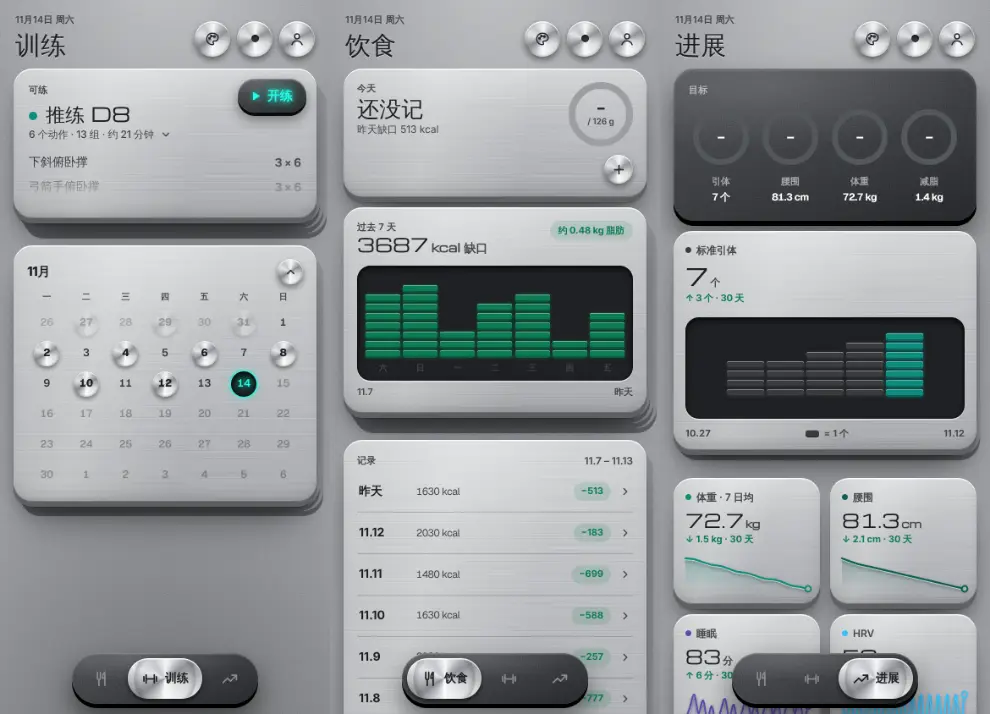
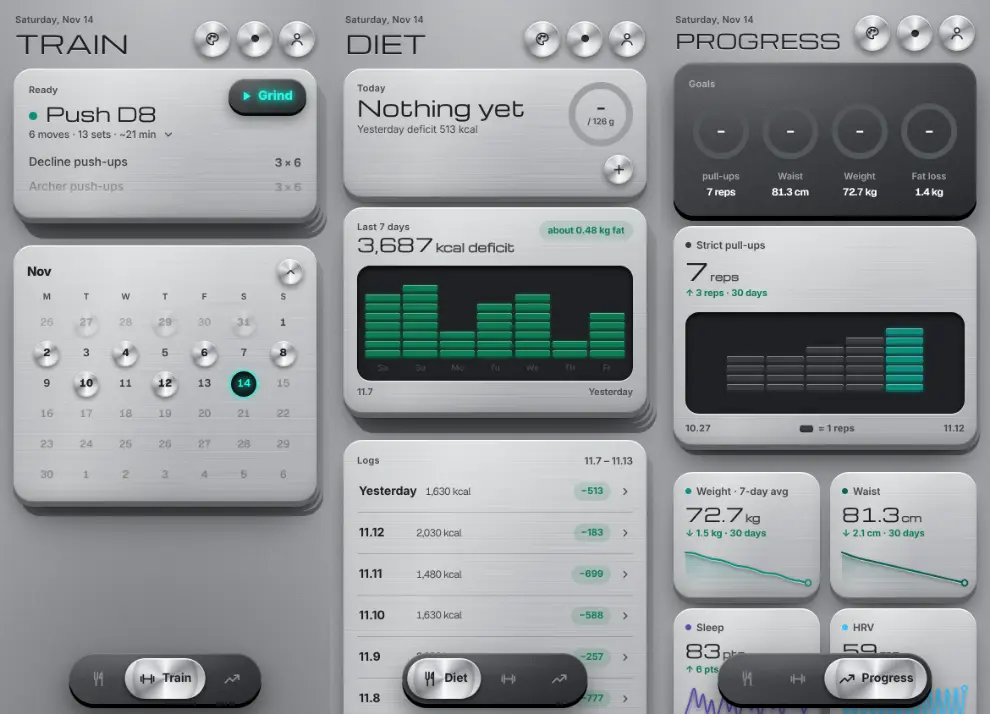
Theme thumbnails in English, one set for every language
Claude-Session: https://claude.ai/code/session_015uTD2PhWcYHBYc8Si5P4yd

diff --git a/tools/thumbs.js b/tools/thumbs.js
@@ -1,5 +1,5 @@
 /* Theme thumbnails for the blind box and the theme list: the three main pages (training, food, progress) of every
-   theme and look, filled with made-up demo data, shot in a headless browser and joined into one strip per look
+   theme and look, filled with made-up demo data, in English (one set for every language), shot in a headless browser and joined into one strip per look
    at img/th/<theme>-<light|dark>.webp. Run from the repo root after a theme or a main page changes visibly:
      python3 -m http.server 8765 &   then   node tools/thumbs.js
    Needs Playwright (require('playwright')). */
@@ -7,7 +7,7 @@ const {chromium}=require("playwright"),fs=require("fs"),path=require("path");
 const BASE="http://localhost:8765/index.html",OUT=path.join(__dirname,"..","img","th"),PW=330,PH=714;
 /* a few weeks of plausible training, food and body numbers, ending yesterday */
 function demo(){const ymd=d=>d.toISOString().slice(0,10),day=n=>{const d=new Date();d.setDate(d.getDate()-n);return ymd(d)};
-  const metrics={},diet={},foods=[["燕麦酸奶",28,9,52,0,410],["鸡胸肉沙拉",42,14,18,1,380],["牛肉饭",34,22,88,1,690],["鸡蛋两个",13,10,1,0,150],["三文鱼配蔬菜",36,20,12,1,400]];
+  const metrics={},diet={},foods=[["Oats & yoghurt",28,9,52,0,410],["Chicken salad",42,14,18,1,380],["Beef rice bowl",34,22,88,1,690],["Two eggs",13,10,1,0,150],["Salmon & greens",36,20,12,1,400]];
   for(let n=1;n<=42;n++){const d=day(n),k=42-n;metrics[d]={date:d,weight:+(74.6-k*.05+Math.sin(n)*.25).toFixed(1),active:420+((n*37)%260),sleep:70+((n*13)%22),hrv:52+((n*7)%14),rhr:56-((n*3)%5)};
     if(n%3===0)metrics[d].waist=+(84-k*.07).toFixed(1);
     if(n<=21)diet[d]={items:foods.slice(0,3+(n%3)).map(f=>({name:f[0],p:f[1],f:f[2],c:f[3],veg:f[4],kcal:f[5]}))}}
@@ -19,7 +19,7 @@ function demo(){const ymd=d=>d.toISOString().slice(0,10),day=n=>{const d=new Dat
   const D=demo();
   await pg.evaluate(D2=>{const dd={sessions:{},metrics:D2.metrics,diet:D2.diet,settings:{plan:"cyclist",sex:"m",height:178,birth:"1990-05-01",buys:[]}};
     localStorage.clear();localStorage.setItem("tracktor-data",JSON.stringify(dd));["welcomed"].forEach(k=>localStorage.setItem("tracktor-p1-"+k,"1"));
-    localStorage.setItem("tracktor-p1-fx","0");localStorage.setItem("tracktor-p1-dust","0");localStorage.setItem("tracktor-p1-rt","0")},{metrics:D.metrics,diet:D.diet});
+    localStorage.setItem("tracktor-p1-fx","0");localStorage.setItem("tracktor-lang","en");localStorage.setItem("tracktor-p1-dust","0");localStorage.setItem("tracktor-p1-rt","0")},{metrics:D.metrics,diet:D.diet});
   await pg.reload();await pg.waitForTimeout(600);
   /* finish the first sessions every other day, with pull-ups creeping up */
   await pg.evaluate(()=>{let n=0;for(const p of PROGRAM.slice(0,14)){const doc=sessionDoc(p.sid),k=n;p.ex.forEach(e=>doc.sets[e.id].forEach((x,i)=>{x.d=true;if(e.id==="pullup")x.v=Math.max(1,Math.round(2+k*.35-i*.5))}));

diff --git a/index.html b/index.html
@@ -7,7 +7,7 @@
 <link rel="manifest" href="manifest.json?v=4">
 <link rel="apple-touch-icon" href="apple-touch-icon.png?v=4">
 <link rel="icon" href="icon.svg?v=4" type="image/svg+xml">
-<link rel="stylesheet" href="css/p1.css?v=31b45cb7"></head><body>
+<link rel="stylesheet" href="css/p1.css?v=5cf61db9"></head><body>
 <div class="wrap">
   <header class="top">
     <div><p class="eyebrow" id="today"></p><h1 id="title">训练</h1></div>
@@ -35,21 +35,21 @@
 <div class="toast" id="toast" role="status"></div>
 <span id="ver" hidden>v1.63a</span>
 
-<script src="js/hant.js?v=31b45cb7"></script>
-<script src="js/core.js?v=31b45cb7"></script>
-<script src="js/diet.js?v=31b45cb7"></script>
-<script src="js/confetti.js?v=31b45cb7"></script>
-<script src="js/sheetcore.js?v=31b45cb7"></script>
-<script src="js/backupcore.js?v=31b45cb7"></script>
-<script src="js/p1data.js?v=31b45cb7"></script>
-<script src="js/p1fx.js?v=31b45cb7"></script>
-<script src="js/p1stack.js?v=31b45cb7"></script>
-<script src="js/coros.js?v=31b45cb7"></script>
-<script src="js/engine.js?v=31b45cb7"></script>
-<script src="js/scratch.js?v=31b45cb7"></script>
-<script src="js/p1.js?v=31b45cb7"></script>
-<script src="js/p1settings.js?v=31b45cb7"></script>
-<script src="js/p1day.js?v=31b45cb7"></script>
-<script src="js/p1weather.js?v=31b45cb7"></script>
-<script src="js/p1music.js?v=31b45cb7"></script>
+<script src="js/hant.js?v=5cf61db9"></script>
+<script src="js/core.js?v=5cf61db9"></script>
+<script src="js/diet.js?v=5cf61db9"></script>
+<script src="js/confetti.js?v=5cf61db9"></script>
+<script src="js/sheetcore.js?v=5cf61db9"></script>
+<script src="js/backupcore.js?v=5cf61db9"></script>
+<script src="js/p1data.js?v=5cf61db9"></script>
+<script src="js/p1fx.js?v=5cf61db9"></script>
+<script src="js/p1stack.js?v=5cf61db9"></script>
+<script src="js/coros.js?v=5cf61db9"></script>
+<script src="js/engine.js?v=5cf61db9"></script>
+<script src="js/scratch.js?v=5cf61db9"></script>
+<script src="js/p1.js?v=5cf61db9"></script>
+<script src="js/p1settings.js?v=5cf61db9"></script>
+<script src="js/p1day.js?v=5cf61db9"></script>
+<script src="js/p1weather.js?v=5cf61db9"></script>
+<script src="js/p1music.js?v=5cf61db9"></script>
 </body></html>

diff --git a/js/p1.js b/js/p1.js
@@ -632,7 +632,7 @@ const SUNMOON='<svg class="sunmoon" viewBox="0 0 24 24" fill="none" stroke="curr
 const thModes=th=>th.fix?[th.fix]:["light","dark"];
 function thPages(th,mode){return [].concat(...(mode?[mode]:thModes(th)).map(m=>[0,1,2].map(i=>({m,i}))))}
 /* TH_V: bump when tools/thumbs.js remakes the pictures (the service worker keeps images until their address changes) */
-const TH_V=1;
+const TH_V=2;
 const thPage=(th,p)=>'background-image:url(img/th/'+th.id+'-'+p.m+'.webp?v='+TH_V+');background-position:'+["0%","50%","100%"][p.i]+' 0';
 /* the stack: the first page on top, the rest stepped right and down behind it */
 function thStack(th,big,mode){const ps=thPages(th,mode);

diff --git a/docs/PRODUCT.md b/docs/PRODUCT.md
@@ -62,7 +62,7 @@
 - **主题盲盒：** G 分商店顶上，余额右边是 App 图标那只信封，隔几秒轻轻晃一下。点它问「花 100 G 开一个主题盲盒？」，付了之后弹出刮刮卡（Ovio 的 Scratch to Reveal，`js/scratch.js`），手指刮开涂层，刮过一半剩下的自己掉；下面是随机抽到的、你还没有的主题（色板 + 名字），揭开时放庆祝，下面出现「好」和「换上」。给过的主题不会再给；所有主题都有了，信封变灰，点了只提示已集齐。刮刮卡的样子跟着当前主题：草木、暖砂、喷砂铝、白瓷、粉瓷是 minimal（磨砂涂层），糖果塑料、黏土是 toy（撒糖粒的蓝橡胶，揭开时彩纸飞出），钴蓝、冰蓝拉丝、奶油塑料是 retro（绿色雪花噪点，一格一格擦），拉丝铝、米白烤漆、黑皮压纹是 craft（银色锡箔票，用硬币刮的毛边）。
 - **G 币和 G 分商店：** G 的图标是当下主题的圆形按钮，中间一个金色的 G，金光一呼一吸；商店叫「G 分商店」（谐音「积分」），英文 barGain store。
 - **图标：** 磨砂钴蓝的底，一只拆开的玫瑰红信封（左翻盖浅、右翻盖深，沿边一道高光），里面抽出一张奶白礼品卡，卡上一枚大金币压着 G（G 寓意肌，拆信封是得到奖励），左下角压印一颗爱心（健身是自爱）。整块图标像一块有厚度的圆角板，底下露出一圈深红的侧边和一点投影。图标的 SVG 原稿是 `icon.svg`，PNG 从它渲染；可遮罩版和 iPhone 版是满版不留圆角（圆角由手机系统按自己的形状裁）；可遮罩版的底色和信封铺满，卡片、金币、爱心收在中间的安全区里，系统裁成圆形或圆角方都不会切到。
-- **主题：** 多数主题有亮、暗两版，顶栏同步按钮左边是明暗开关（点一下切换，长按进主题页，也就是 G 分商店的主题区）；只有一种样子的主题没有这个开关，设定 › 外观里也不显示「跟随手机 / 亮 / 暗」，主题在 G 分商店换。G 分商店的主题列表只显示已经拥有的主题，没解锁的一个都不露，保持神秘；只有主题盲盒右上角一个数字，写着还有几套没解锁，新主题只从盲盒里开。盲盒是一只封着的彩色信封（玫红信封、金色心形封蜡，一直是彩色）：G 不够 100 或主题都集齐了，点它只抖一下、不打开；能开时点它，信封掀开盖子、变成 App 图标的样子（打开的信封里一枚 G 币），接着进刮刮卡；能开时它隔几秒轻轻晃一下。刮刮卡穿的是当前主题的颜色和质感（卡片、颗粒、凹槽、强调色，Ovio 的 Scratch to Reveal 只是底子），没有多余的字，只有一条进度线；刮开不到一半，底下只是一团模糊，什么也看不出，这时关掉就算没开盒、不扣 G；刮过一半才扣 100 G、收进主题，奖品从模糊里慢慢清楚：那套主题三个主页面（训练、饮食、进展）的缩略图叠成一小摞（亮暗两版的是六张，名字后面一个日月图标），点它弹出一个不超过半个屏幕的面板，左右划或点一下一张张看。下面两个键：「收下」和「使用」。主题列表里每个主题也用自己三页的缩略图一小摞来认（当前明暗那一版），亮暗两版的带日月图标，不再用色块条。缩略图是 `img/th/<主题>-<light|dark>.webp`（三页并排），用 `tools/thumbs.js` 拿假数据在无头浏览器里截。草木 · 极光免费（亮色石膏灰配柔和的鼠尾草绿，暗色深海黑配极光青）；暖砂 · 流金 60 G（亮色燕麦石灰配陶土橙，暗色黑曜石配落日流金）；玩具 90 G：照开源的 Ovio UI「toy」风格（MIT），点阵底板、塑料卡片带唇边、红蓝黄绿原色按键按下会沉下去、缺口柱子是一块块积木、日历上练过的日子是彩色塑料钉、目标是一块蓝色塑料板、数字用等宽字，打勾是红色街机按钮，彩带换成原色方块和圆点；亮色是奶油色塑料配红蓝黄绿，暗色是巨型机器人配色的夜间玩具：深紫底板和紫色塑料卡片，荧光青柠绿是主色，橙色是第二色（缺口 / 盈余、好 / 坏也是绿 / 橙），目标是一块紫色塑料板。立体感：顶栏的同步按钮照 Ovio 的 pull to sync 做成凹槽里的塑料滑块（拖到最右松手同步、弹簧弹回，轻点也同步；中间小灯平时黄、同步中闪、完成绿），头像是圆鼓鼓的蓝色塑料按钮；卡路里柱子照 Ovio 的 star history 摞成 8px 的小积木，每块底下一道深色唇边、顶上一线高光；卡片有亮的上沿和 7px 唇边，厚度更明显，图表的线是带投影的塑料管，目标圈有投影。声音也换成玩具声：打勾「啵」、做完一个动作木琴琶音、休息结束布谷鸟、练完玩具小号、点按塑料咔哒，烟花是卡通「砰」加一串弹珠声。亮色版的颜色都压低了饱和度，不刺眼，大约是一周练够三天赚的。另有四套只有一种样子的触感主题：钴蓝磨砂 120 G（暗：蓝色阳极铝面板，卡片带斜面高光，按钮是圆柱键帽，底板和卡路里柱子是点阵屏，线和指示灯有白蓝辉光，打勾是高圆柱旋钮）；拉丝铝 · 霓虹 120 G（亮：拉丝铝卡片配顶光，按钮是黑色阳极件上的青色霓虹字，小按钮是锥纹金属旋钮，打勾是黑表圈白表盘，目标板是黑色，柱子是喇叭网孔、今天那根亮青色）；米白烤漆 90 G（亮：米白机身，方键、凹碟、柿橙圆点，底栏是黑色键槽里的米白方键，顶栏按钮是黑座圆顶、头像是橄榄绿，打勾是滚花拨盘）；黏土 · 薄荷 90 G（亮：网格纸底，白色积木卡片带往左下的斜投影，按钮是薄荷积木，目标板是薄荷色，打勾做完变成发光的薄荷圆环）。这四套的光影按同一套做法：每套一个固定光源方向；每种材质有自己的颗粒（塑料细颗粒、拉丝铝的单向拉丝、黏土的哑光粉感）；卡片阴影分接触阴影、中距和远距三层，加上边缘高光和底部暗部；底板有顶光光池和四周暗角；高光跟着手机倾斜移动，金属旋钮的反光和滚花拨盘跟着转，手拿稳后慢慢回到原位（电脑上跟着鼠标）。系统开了「减少动态效果」就不动。玩具主题保持 Ovio 原版的卡通效果，不开光追（试过让按键侧面跟着倾斜，不自然又拖慢，去掉了）。每套主题的拉丁字母和数字用自己的字体（都放在网站里，离线也能用）：拉丝铝 Michroma（宽体仪表字，标题大写）、钴蓝 Doto（点阵字，带辉光）、米白 Inter Tight（瑞士风）、黏土 Nunito（圆润）、暖砂 Fraunces（温润的衬线），草木 · 极光用 Geist、标题和数字字重更轻、小标题大写加字距，偏冷淡。开关和分段按钮也各按主题做成不同的硬件：拉丝铝是凹槽里的金属球拨杆和走带键排、钴蓝是推子和键帽排、米白是黑槽里的米白拨杆和黑框方键排（选中的键下面一个柿橙点）、黏土是积木拨块。奶油塑料 120 G（亮、暗两版，跟着倾斜打光）：油润的半哑光塑料机身，亮色是暖灰机身配奶油色和藕粉色按键，暗色是黑色机身配橙色和朱红按键；训练卡和目标卡是嵌在边框里的点阵屏（标题和专注页的大数字用点阵字），按钮是带凹碟的方键，圆钮是旋钮，开关是小方槽里的圆按钮（打开时亮红灯），柱子是喇叭网孔，日历今天是红色指示灯。另有五套材质主题：冰蓝拉丝 120 G（固定亮色：冰蓝拉丝阳极铝机身，训练卡、目标卡和积木图是嵌在黑框里的绿灰色段码液晶，数字用液晶等宽字，小键是黑色橡胶键，开练是橙色播放键，打勾是银色拉丝转盘套橙圈，图标按钮是金属钮）；黑皮压纹 120 G（固定暗色：真的有凹凸的黑色压纹蒙皮，训练卡左边一道红色饰条，按钮是镁合金件，开练是红色，旋钮和小按钮是滚花拨盘，打勾是带银圈的快门键）；粉瓷 · 铜蓝 120 G（亮、暗两版，照 Dyson 两款吹风机的配色：亮是奶白陶瓷机身配玫瑰金属色风筒、淡紫灰滤网和旋纹按钮，底色是柔和的粉；暗是普鲁士蓝哑光机身配金铜风筒和铜色滤网、铜色旋纹按钮；两版共有：细颗粒的阳极氧化质感，按键和目标板是金属色，小圆钮是带深色边、微微凸起看得到厚度的旋纹金属钮，积木图和拨轮用穿孔滤网的纹样，打勾像正对着的风嘴，中间深色风口外一圈透明环；跟着光追有高光）；钴蓝的按钮和卡片是同一种平面斜边材质，不再是圆鼓鼓的键帽；喷砂铝 120 G（亮、暗两版：银色 / 深空灰的喷砂铝，钻石切边高光，按钮是黑色键帽，训练卡和目标卡像黑色屏幕嵌在边框里，开练是蓝色，打勾是带金属圈的指纹键）；白瓷 120 G（亮、暗两版：没有描边的实心瓷块，背后是柔和的彩色光斑，顶边一线高光、底边透光，下面一道透明的厚度，有一条亮的反光带，选中项是经典的蓝色渐变高亮，目标卡是蓝色背光屏，打勾是点按转盘，中间按钮做完变蓝）。积木柱状图：饮食页的缺口 / 盈余柱子是一块块积木摞成的（这张卡在可以左右划走的卡堆里，所以积木不随手指弹）。进展页的主项是一个两张牌的毛玻璃卡堆，字体和别的数据卡一样（小标签、大数字、涨跌）：第一张是主项最近 12 次的单组最好成绩，第二张是每周总数（训练日、加在训练里的、休息日记的都算，从第一个有记录的周开始、最多 12 周，大数字是总数，下面是本周）。两张都用积木：一块积木是一个整数（1、2、5、10…个，让最高那列不超过 9 块），图下写着「▬ = 5 个」，最高的一列换第二种颜色。画出来时积木一块块掉下来；手指在积木上划过，经过的那一列弹起、轻振一下，右上角浮出那一列的日期和数；积木区域里手指只读数、不翻牌，翻牌在卡片上半部分划，或点后面露出的那张。整个卡堆和别的数据卡一样，长按可以拖动或隐藏，点一下打开完整曲线。旋钮：图表的时间范围（14 天 / 30 天 / 90 天 / 全部）和设定里的语言（简中 / 繁中 / Eng）都是旋钮，标签排在上方的弧线上，可以转、点旋钮跳下一档、或点标签；每套主题的旋钮和积木都是自己的材质。设定 › 外观 › 特效：光追（开关：开是轻微的效果，高光跟着倾斜慢慢移动、每秒最多更新十来次；关掉就不跟倾斜）、天气、两天没练就落灰（两天没有训练或加练，画面开始落灰、泛黄、褪色，分三档：2–4 天、5–7 天、8 天起，四周的做旧斑驳（`img/grunge-1..3.webp`，用噪声画的，不是网上的图）一档比一档往里蔓延，裂纹和划痕也更多；暗色下是浅色的灰；一打勾就从左往右擦干净）、庆祝效果。庆祝效果跟着主题走（每套主题都有自己的，不再用通用烟花；不管东西轻重，每一片发射前都按它自己的重力和阻力算好力度，至少飞到屏幕上方三分之一），声音也换成一整套：草木撒叶子（3–8 月是深浅不一的绿叶，9–2 月是红橙黄褐的秋叶），配玻璃风铃；暖砂飘金箔，配温暖的铃声；粉瓷 · 铜蓝飘小花朵和花瓣（亮版粉和奶白，暗版金铜和奶白带一点淡蓝），先有一阵风声；喷砂铝和白瓷是一闪一闪的四角星光，配一声干净的「叮」；冰蓝拉丝撒一把小 MD 碟（半透明彩色外壳，能看到里面的光盘和滑盖，标签上是你最近在 Spotify 听过的歌的封面，没连 Spotify 就是白标签），落地塑料咔哒声；黑皮压纹是快门一闪、一圈六角光圈往外扩，配机械快门声；玩具撒带凸点的积木块（落地弹几下，倒积木的哗啦声）；钴蓝磨砂是整屏电子点阵爆闪（从爆点扩散的光环和随机闪点，大庆祝先白闪一下，配合成器琶音）；拉丝铝是青色霓虹冲击环加撒落的铬钢珠（落地会弹，叮当的金属声）；米白烤漆是翻转飘落的柿橙 / 米白 / 橄榄色圆片（叮咚两声的钟音）；黏土是落地会压扁的软泥团（噗噗声）；奶油塑料是一格一格落的 8-bit 像素方块（芯片音乐）；草木和暖砂保留烟花。打勾、做完一个动作、休息结束、练完、点按的音效也按主题换。页面标题会自动缩小，不碰顶栏按钮。暖砂 · 流金的底板加了纸张颗粒，卡片是暖色多层阴影、圆角更大。买过的记在 `settings.buys`，余额 = 赚的 − 花的。在「备份进度」里导入一个 G 充值文件（内容是 `PP2g:{"id":…,"g":数量}`）只会加 G、别的数据都不动，同一个文件只算一次（在 `settings.buys` 里记一条负的花费）。亮色下训练卡也是浅色卡片。
+- **主题：** 多数主题有亮、暗两版，顶栏同步按钮左边是明暗开关（点一下切换，长按进主题页，也就是 G 分商店的主题区）；只有一种样子的主题没有这个开关，设定 › 外观里也不显示「跟随手机 / 亮 / 暗」，主题在 G 分商店换。G 分商店的主题列表只显示已经拥有的主题，没解锁的一个都不露，保持神秘；只有主题盲盒右上角一个数字，写着还有几套没解锁，新主题只从盲盒里开。盲盒是一只封着的彩色信封（玫红信封、金色心形封蜡，一直是彩色）：G 不够 100 或主题都集齐了，点它只抖一下、不打开；能开时点它，信封掀开盖子、变成 App 图标的样子（打开的信封里一枚 G 币），接着进刮刮卡；能开时它隔几秒轻轻晃一下。刮刮卡穿的是当前主题的颜色和质感（卡片、颗粒、凹槽、强调色，Ovio 的 Scratch to Reveal 只是底子），没有多余的字，只有一条进度线；刮开不到一半，底下只是一团模糊，什么也看不出，这时关掉就算没开盒、不扣 G；刮过一半才扣 100 G、收进主题，奖品从模糊里慢慢清楚：那套主题三个主页面（训练、饮食、进展）的缩略图叠成一小摞（亮暗两版的是六张，名字后面一个日月图标），点它弹出一个不超过半个屏幕的面板，左右划或点一下一张张看。下面两个键：「收下」和「使用」。主题列表里每个主题也用自己三页的缩略图一小摞来认（当前明暗那一版），亮暗两版的带日月图标，不再用色块条。缩略图是 `img/th/<主题>-<light|dark>.webp`（三页并排），用 `tools/thumbs.js` 拿假数据在无头浏览器里截，一律是英文界面，三种语言共用一套。草木 · 极光免费（亮色石膏灰配柔和的鼠尾草绿，暗色深海黑配极光青）；暖砂 · 流金 60 G（亮色燕麦石灰配陶土橙，暗色黑曜石配落日流金）；玩具 90 G：照开源的 Ovio UI「toy」风格（MIT），点阵底板、塑料卡片带唇边、红蓝黄绿原色按键按下会沉下去、缺口柱子是一块块积木、日历上练过的日子是彩色塑料钉、目标是一块蓝色塑料板、数字用等宽字，打勾是红色街机按钮，彩带换成原色方块和圆点；亮色是奶油色塑料配红蓝黄绿，暗色是巨型机器人配色的夜间玩具：深紫底板和紫色塑料卡片，荧光青柠绿是主色，橙色是第二色（缺口 / 盈余、好 / 坏也是绿 / 橙），目标是一块紫色塑料板。立体感：顶栏的同步按钮照 Ovio 的 pull to sync 做成凹槽里的塑料滑块（拖到最右松手同步、弹簧弹回，轻点也同步；中间小灯平时黄、同步中闪、完成绿），头像是圆鼓鼓的蓝色塑料按钮；卡路里柱子照 Ovio 的 star history 摞成 8px 的小积木，每块底下一道深色唇边、顶上一线高光；卡片有亮的上沿和 7px 唇边，厚度更明显，图表的线是带投影的塑料管，目标圈有投影。声音也换成玩具声：打勾「啵」、做完一个动作木琴琶音、休息结束布谷鸟、练完玩具小号、点按塑料咔哒，烟花是卡通「砰」加一串弹珠声。亮色版的颜色都压低了饱和度，不刺眼，大约是一周练够三天赚的。另有四套只有一种样子的触感主题：钴蓝磨砂 120 G（暗：蓝色阳极铝面板，卡片带斜面高光，按钮是圆柱键帽，底板和卡路里柱子是点阵屏，线和指示灯有白蓝辉光，打勾是高圆柱旋钮）；拉丝铝 · 霓虹 120 G（亮：拉丝铝卡片配顶光，按钮是黑色阳极件上的青色霓虹字，小按钮是锥纹金属旋钮，打勾是黑表圈白表盘，目标板是黑色，柱子是喇叭网孔、今天那根亮青色）；米白烤漆 90 G（亮：米白机身，方键、凹碟、柿橙圆点，底栏是黑色键槽里的米白方键，顶栏按钮是黑座圆顶、头像是橄榄绿，打勾是滚花拨盘）；黏土 · 薄荷 90 G（亮：网格纸底，白色积木卡片带往左下的斜投影，按钮是薄荷积木，目标板是薄荷色，打勾做完变成发光的薄荷圆环）。这四套的光影按同一套做法：每套一个固定光源方向；每种材质有自己的颗粒（塑料细颗粒、拉丝铝的单向拉丝、黏土的哑光粉感）；卡片阴影分接触阴影、中距和远距三层，加上边缘高光和底部暗部；底板有顶光光池和四周暗角；高光跟着手机倾斜移动，金属旋钮的反光和滚花拨盘跟着转，手拿稳后慢慢回到原位（电脑上跟着鼠标）。系统开了「减少动态效果」就不动。玩具主题保持 Ovio 原版的卡通效果，不开光追（试过让按键侧面跟着倾斜，不自然又拖慢，去掉了）。每套主题的拉丁字母和数字用自己的字体（都放在网站里，离线也能用）：拉丝铝 Michroma（宽体仪表字，标题大写）、钴蓝 Doto（点阵字，带辉光）、米白 Inter Tight（瑞士风）、黏土 Nunito（圆润）、暖砂 Fraunces（温润的衬线），草木 · 极光用 Geist、标题和数字字重更轻、小标题大写加字距，偏冷淡。开关和分段按钮也各按主题做成不同的硬件：拉丝铝是凹槽里的金属球拨杆和走带键排、钴蓝是推子和键帽排、米白是黑槽里的米白拨杆和黑框方键排（选中的键下面一个柿橙点）、黏土是积木拨块。奶油塑料 120 G（亮、暗两版，跟着倾斜打光）：油润的半哑光塑料机身，亮色是暖灰机身配奶油色和藕粉色按键，暗色是黑色机身配橙色和朱红按键；训练卡和目标卡是嵌在边框里的点阵屏（标题和专注页的大数字用点阵字），按钮是带凹碟的方键，圆钮是旋钮，开关是小方槽里的圆按钮（打开时亮红灯），柱子是喇叭网孔，日历今天是红色指示灯。另有五套材质主题：冰蓝拉丝 120 G（固定亮色：冰蓝拉丝阳极铝机身，训练卡、目标卡和积木图是嵌在黑框里的绿灰色段码液晶，数字用液晶等宽字，小键是黑色橡胶键，开练是橙色播放键，打勾是银色拉丝转盘套橙圈，图标按钮是金属钮）；黑皮压纹 120 G（固定暗色：真的有凹凸的黑色压纹蒙皮，训练卡左边一道红色饰条，按钮是镁合金件，开练是红色，旋钮和小按钮是滚花拨盘，打勾是带银圈的快门键）；粉瓷 · 铜蓝 120 G（亮、暗两版，照 Dyson 两款吹风机的配色：亮是奶白陶瓷机身配玫瑰金属色风筒、淡紫灰滤网和旋纹按钮，底色是柔和的粉；暗是普鲁士蓝哑光机身配金铜风筒和铜色滤网、铜色旋纹按钮；两版共有：细颗粒的阳极氧化质感，按键和目标板是金属色，小圆钮是带深色边、微微凸起看得到厚度的旋纹金属钮，积木图和拨轮用穿孔滤网的纹样，打勾像正对着的风嘴，中间深色风口外一圈透明环；跟着光追有高光）；钴蓝的按钮和卡片是同一种平面斜边材质，不再是圆鼓鼓的键帽；喷砂铝 120 G（亮、暗两版：银色 / 深空灰的喷砂铝，钻石切边高光，按钮是黑色键帽，训练卡和目标卡像黑色屏幕嵌在边框里，开练是蓝色，打勾是带金属圈的指纹键）；白瓷 120 G（亮、暗两版：没有描边的实心瓷块，背后是柔和的彩色光斑，顶边一线高光、底边透光，下面一道透明的厚度，有一条亮的反光带，选中项是经典的蓝色渐变高亮，目标卡是蓝色背光屏，打勾是点按转盘，中间按钮做完变蓝）。积木柱状图：饮食页的缺口 / 盈余柱子是一块块积木摞成的（这张卡在可以左右划走的卡堆里，所以积木不随手指弹）。进展页的主项是一个两张牌的毛玻璃卡堆，字体和别的数据卡一样（小标签、大数字、涨跌）：第一张是主项最近 12 次的单组最好成绩，第二张是每周总数（训练日、加在训练里的、休息日记的都算，从第一个有记录的周开始、最多 12 周，大数字是总数，下面是本周）。两张都用积木：一块积木是一个整数（1、2、5、10…个，让最高那列不超过 9 块），图下写着「▬ = 5 个」，最高的一列换第二种颜色。画出来时积木一块块掉下来；手指在积木上划过，经过的那一列弹起、轻振一下，右上角浮出那一列的日期和数；积木区域里手指只读数、不翻牌，翻牌在卡片上半部分划，或点后面露出的那张。整个卡堆和别的数据卡一样，长按可以拖动或隐藏，点一下打开完整曲线。旋钮：图表的时间范围（14 天 / 30 天 / 90 天 / 全部）和设定里的语言（简中 / 繁中 / Eng）都是旋钮，标签排在上方的弧线上，可以转、点旋钮跳下一档、或点标签；每套主题的旋钮和积木都是自己的材质。设定 › 外观 › 特效：光追（开关：开是轻微的效果，高光跟着倾斜慢慢移动、每秒最多更新十来次；关掉就不跟倾斜）、天气、两天没练就落灰（两天没有训练或加练，画面开始落灰、泛黄、褪色，分三档：2–4 天、5–7 天、8 天起，四周的做旧斑驳（`img/grunge-1..3.webp`，用噪声画的，不是网上的图）一档比一档往里蔓延，裂纹和划痕也更多；暗色下是浅色的灰；一打勾就从左往右擦干净）、庆祝效果。庆祝效果跟着主题走（每套主题都有自己的，不再用通用烟花；不管东西轻重，每一片发射前都按它自己的重力和阻力算好力度，至少飞到屏幕上方三分之一），声音也换成一整套：草木撒叶子（3–8 月是深浅不一的绿叶，9–2 月是红橙黄褐的秋叶），配玻璃风铃；暖砂飘金箔，配温暖的铃声；粉瓷 · 铜蓝飘小花朵和花瓣（亮版粉和奶白，暗版金铜和奶白带一点淡蓝），先有一阵风声；喷砂铝和白瓷是一闪一闪的四角星光，配一声干净的「叮」；冰蓝拉丝撒一把小 MD 碟（半透明彩色外壳，能看到里面的光盘和滑盖，标签上是你最近在 Spotify 听过的歌的封面，没连 Spotify 就是白标签），落地塑料咔哒声；黑皮压纹是快门一闪、一圈六角光圈往外扩，配机械快门声；玩具撒带凸点的积木块（落地弹几下，倒积木的哗啦声）；钴蓝磨砂是整屏电子点阵爆闪（从爆点扩散的光环和随机闪点，大庆祝先白闪一下，配合成器琶音）；拉丝铝是青色霓虹冲击环加撒落的铬钢珠（落地会弹，叮当的金属声）；米白烤漆是翻转飘落的柿橙 / 米白 / 橄榄色圆片（叮咚两声的钟音）；黏土是落地会压扁的软泥团（噗噗声）；奶油塑料是一格一格落的 8-bit 像素方块（芯片音乐）；草木和暖砂保留烟花。打勾、做完一个动作、休息结束、练完、点按的音效也按主题换。页面标题会自动缩小，不碰顶栏按钮。暖砂 · 流金的底板加了纸张颗粒，卡片是暖色多层阴影、圆角更大。买过的记在 `settings.buys`，余额 = 赚的 − 花的。在「备份进度」里导入一个 G 充值文件（内容是 `PP2g:{"id":…,"g":数量}`）只会加 G、别的数据都不动，同一个文件只算一次（在 `settings.buys` 里记一条负的花费）。亮色下训练卡也是浅色卡片。
 - **样子：** 和 SplitFlow 同一套做法：亮色是石膏灰配荧光绿，暗色是深海黑配极光青，背景一团淡光；大圆角卡片、极淡边框、上沿高光；数字用 Geist；一个强调色，字重三档；所有详情和编辑都用同一种底部弹出面板，往下拖能关；一组同类的卡片（训练日、日历的周和月、饮食记录）用同一种毛玻璃 swipe stack（`js/p1stack.js`）：后面的牌是整张卡、整齐地一张比一张往右下错开一小步、颜色略深、底边一道细硬阴影，像一摞有厚度的牌（手指按上去时整摞再拉开一点），最多露三张，只要还有别的牌就露出来；划动时下面一张是毛玻璃，划走上面一张后 0.3 秒内变清晰，手指往右是往前的时间；动效用同一条回弹曲线，系统要求减少动态时全部关掉。语言：简体中文、繁体中文、英文，头像 › 语言切换，当场换，设定面板留着。繁体是把简体界面逐字换成台湾用字（`js/hant.js`，对照表用 OpenCC 生成，只收界面用到的字），弹窗和确认框也换。
 
 ## 现在的样子

diff --git a/CLAUDE.md b/CLAUDE.md
@@ -41,7 +41,7 @@
 - 主项（目标里的那个运动，`js/p1data.js` 的 `mainEx`/`mainSeries`）：默认标准引体；从计划动作选的打勾自动记、训练引擎不换它（`isMain`），自己写的只能手动记。
 - G 币图标 `COIN`（`js/p1.js`）是当下主题的 `.circ` 圆钮加金色 G、呼吸发光；商店叫「G 分商店 / barGain store」。
 - G（积分，Grind）从记录现算（`js/p1data.js` 的 `coinBadges`），不另存；余额 = 赚的 − `settings.buys` 里花掉的。训练计划除了推拉二分（`cyclist`）、自由练、自定义，其他预设要 200 G 解锁（`js/p1settings.js` 的 `planOwned`，买的记 `plan:<id>`）。主题盲盒（`js/p1.js` 的 `openBox`，100 G）随机给一个还没有的主题，记在 `settings.buys`（带 `box:1`），都集齐了就不能开。
-- 主题缩略图：`img/th/<id>-<light|dark>.webp`，训练、饮食、进展三页并排，开本地服务器后 `node tools/thumbs.js` 用假数据重截。新主题或主页面样子明显变了就重截，并把 `js/p1.js` 的 `TH_V` 加一（图片不在 `sw.js` 预缓存列表里，用到时才缓存，换地址才会更新）。
+- 主题缩略图：`img/th/<id>-<light|dark>.webp`，训练、饮食、进展三页并排，开本地服务器后 `node tools/thumbs.js` 用假数据重截（英文界面，三种语言共用）。新主题或主页面样子明显变了就重截，并把 `js/p1.js` 的 `TH_V` 加一（图片不在 `sw.js` 预缓存列表里，用到时才缓存，换地址才会更新）。
 - 主题（`js/p1.js` 的 `THEMES`，`css/p1.css` 里 `:root[data-theme=…]`，亮暗两版靠 `data-mode`）：一般要有亮、暗两版；只有一种样子的主题在 `THEMES` 里写 `fix:"light"|"dark"`，这时 `html[data-fixed]` 藏掉明暗开关和设定里的明暗选项（顶栏换成调色盘 `#themeBtn`，进主题列表），手机倾斜写进 `--lx`/`--ly`/`--rot`（`js/p1.js`），触感主题和奶油塑料（`THEMES` 里 `lit`）的高光和金属反光用它们；玩具主题不接光追。主题字体放 `fonts/`（许可见 `fonts/THEMES-OFL.txt`），材质颗粒（拉丝、细颗粒、黏土粉、压纹皮、喷砂）是 `img/tex-*.webp`（从 SVG 噪声预先渲染，比现场算快；新材质也这样做），标题和大数字用 `--disp`，小数字用 `--num`。草木 · 极光免费，其他用 G 换。顶栏的明暗开关点一下切换，长按进主题页。
 - 训练计划：`settings.plan`（`js/engine.js` 的 `PRESETS`/`setPlan`）选 1–3 种训练日，内部类型固定是 `push`、`pull`、`third`（名字由计划定，`js/core.js` 的 `dayName`/`LAB`）；进度文件里训练的键前缀是 u、l、t。预设只是数据，以后用户写的计划也照这个格式。自由练 `id:"free"`（`js/engine.js` 的 `freeBase`/`freeLog`/`freePattern`）：没选过计划、也没练过正式训练的新用户默认是它；建议从最近 3 周的训练和加练里长出来（散步骑行这类不排），按部位多久没练排，每次至少 2 个动作 5 组；练法稳定后提示存成自定义计划。自定义计划 `id:"custom"`（`setCustomPlan`，面板 `openCustom`）：只用练过的动作（`engMoves`），每个动作从自己的上次记录接着练；自定义计划和自由练下引擎不换动作（`engCustom`）；一种训练日里找不到某动作的历史时，到所有训练和加练里找（`engMoveHist`）。
 - 训练引擎排的训练存在训练记录本身：`sessions[sid].ex` 是这次的动作、`feel` 是每个动作的感觉、`edited` 表示用户手改过。`js/core.js` 的 `registerPlanned` 把它们挂进 `PROGRAM`/`BYID`（可以超过第 20 天，`third-NN` 只靠它注册）。进度文件里对应追加的字段是 `pe`。
